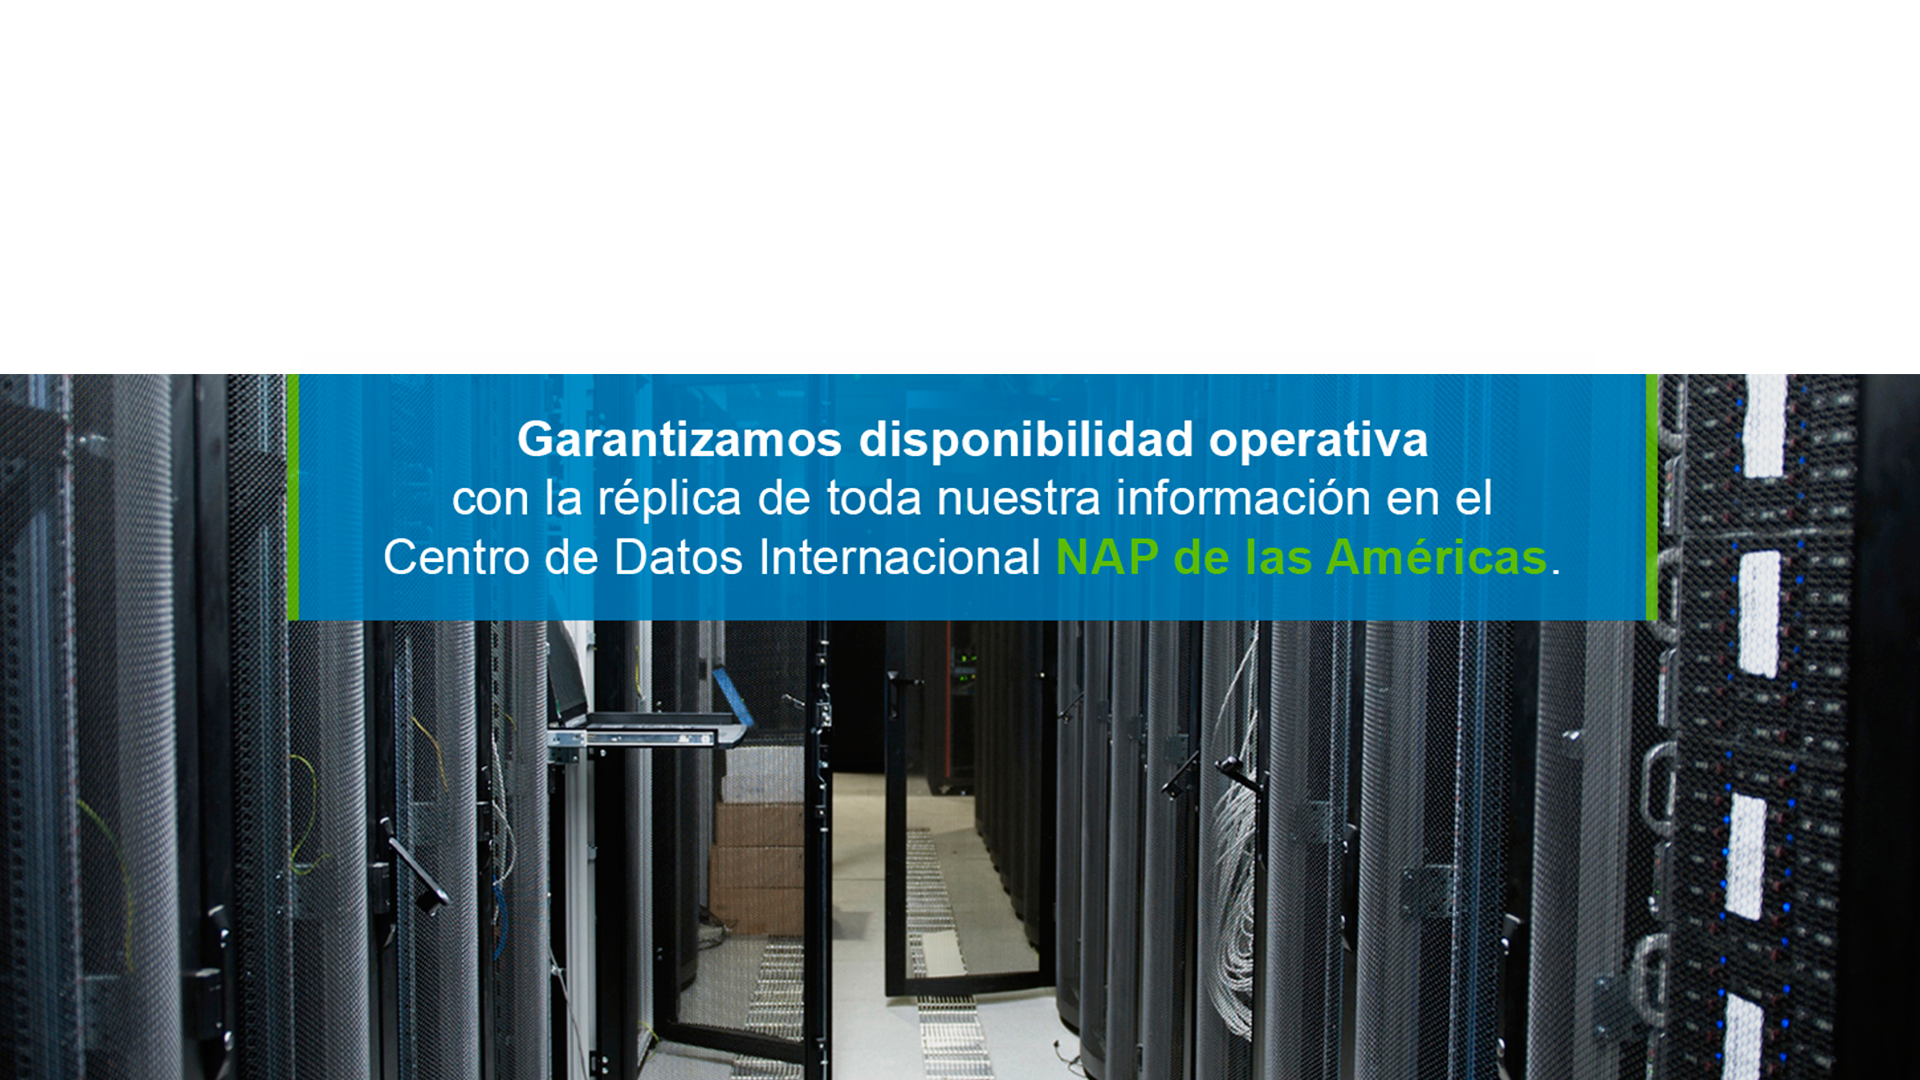
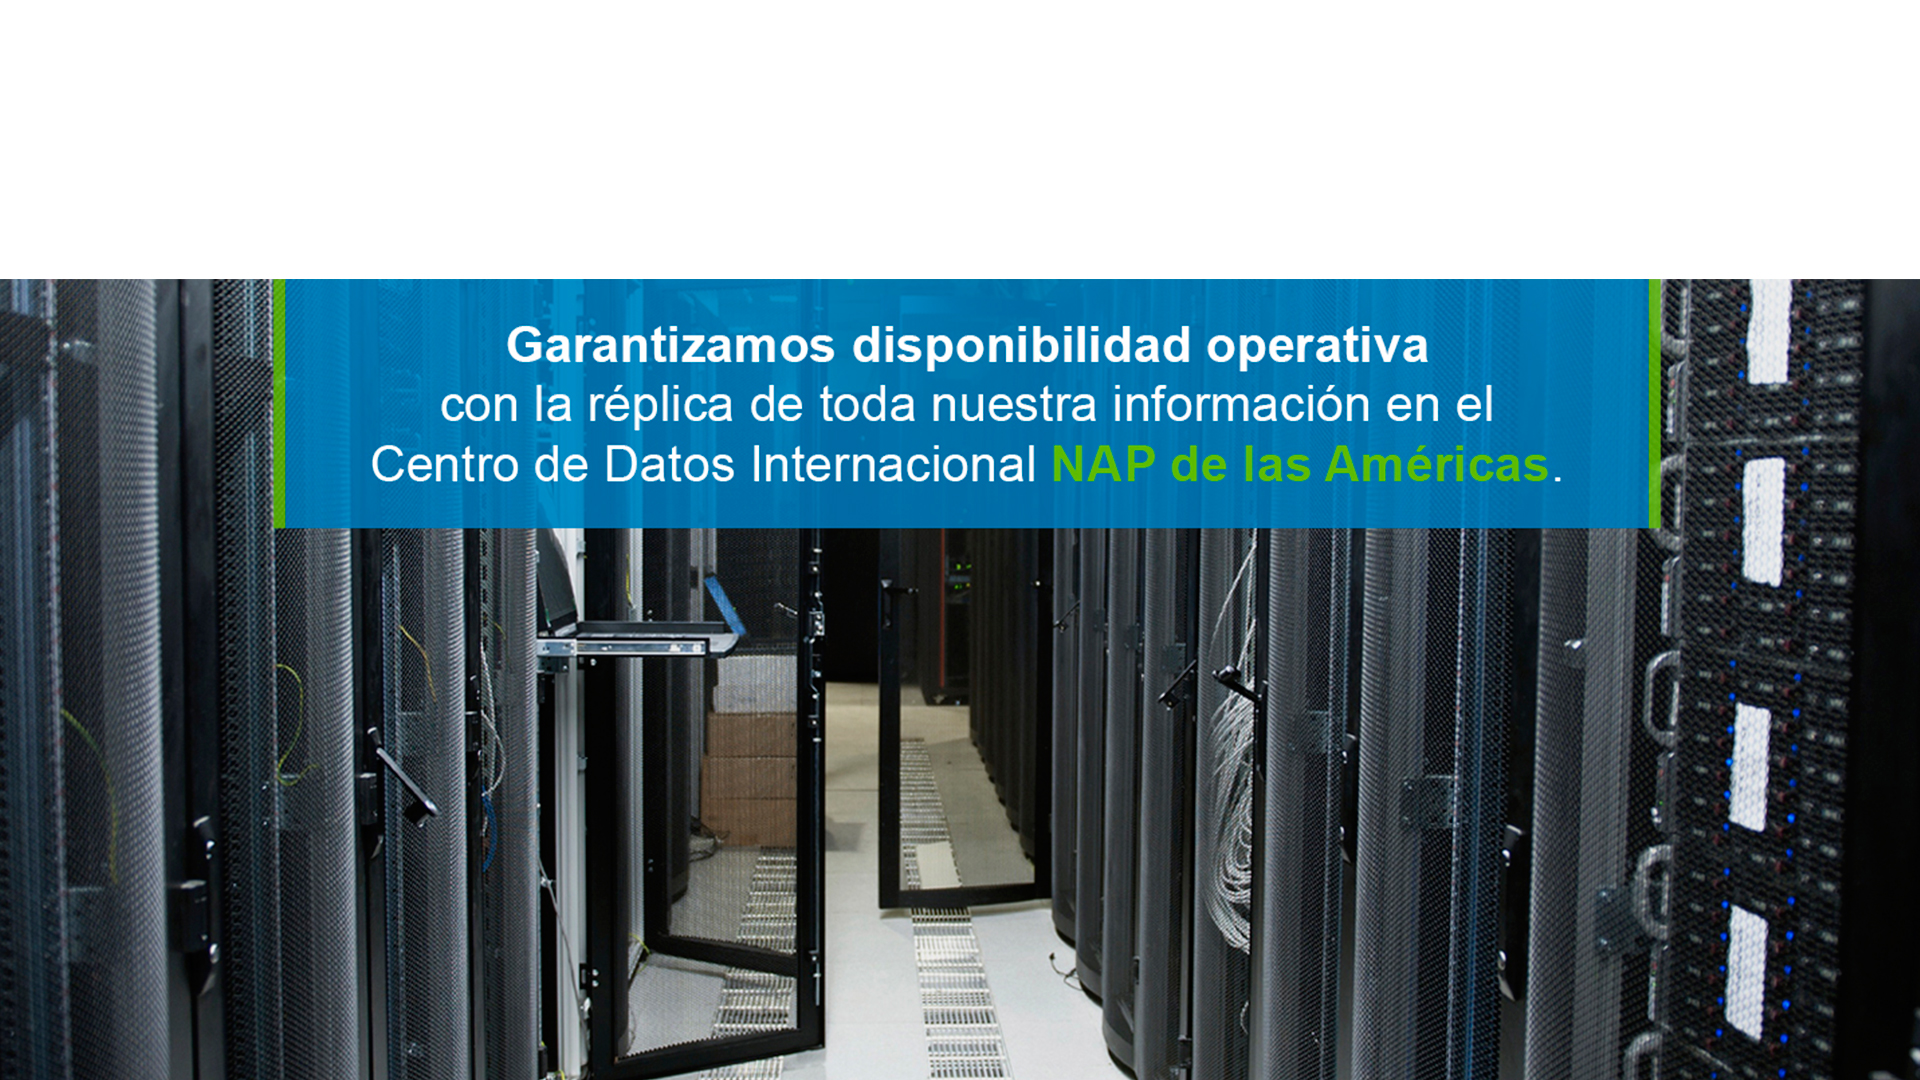
nuevas imagenes ajsutadas para mozilla y chrome

diff --git a/web/index.html b/web/index.html
@@ -124,7 +124,7 @@
     <!-- Slider area starts -->
     <section id="slider">
         <div id="carousel-example-generic" class="carousel slide carousel-fade">
-
+            <br>
             <div class="carousel-inner" role="listbox">
 
                 <!-- Item 1 -->
@@ -231,7 +231,6 @@
 
             <div class="row">
                 <!-- About Image -->
-
 
                 <!-- About Text -->
                 <div class="col-md-12">
